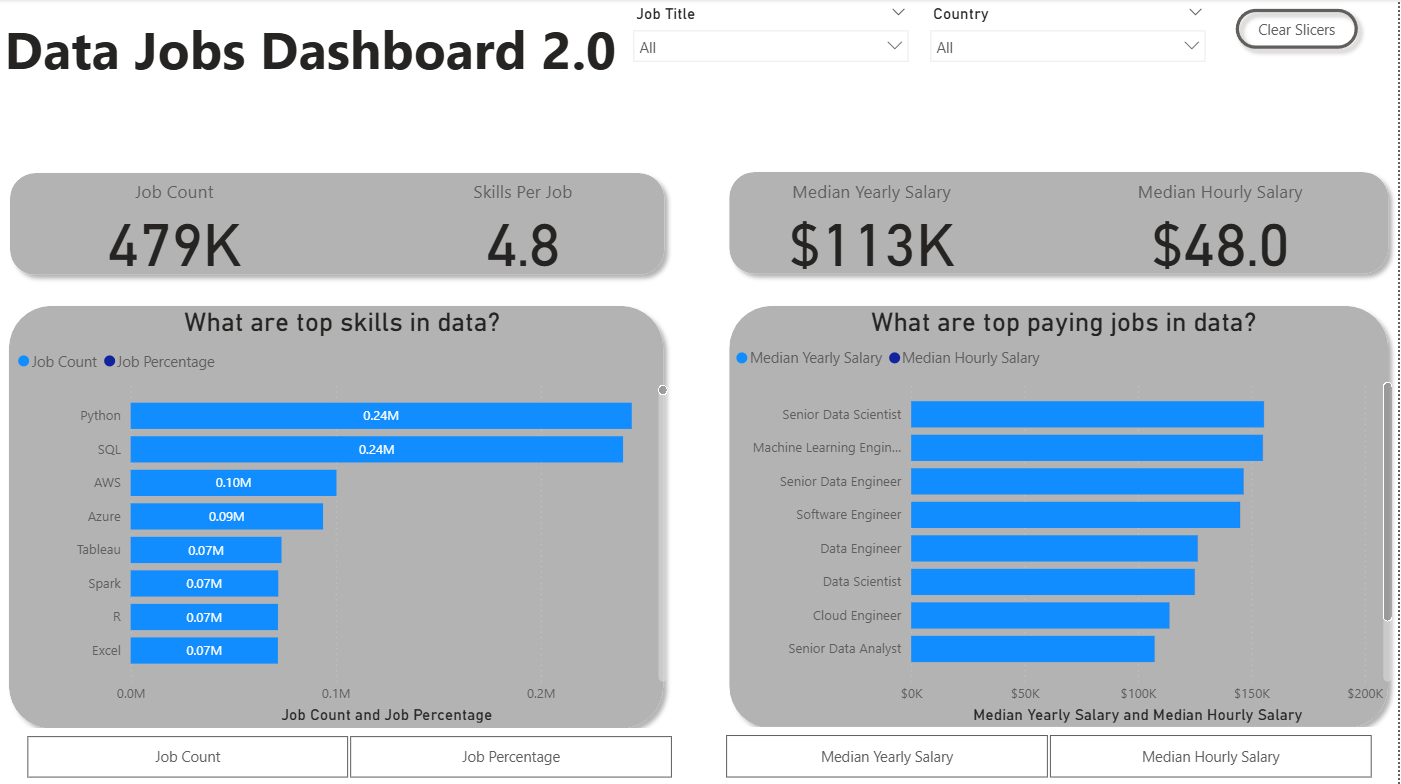
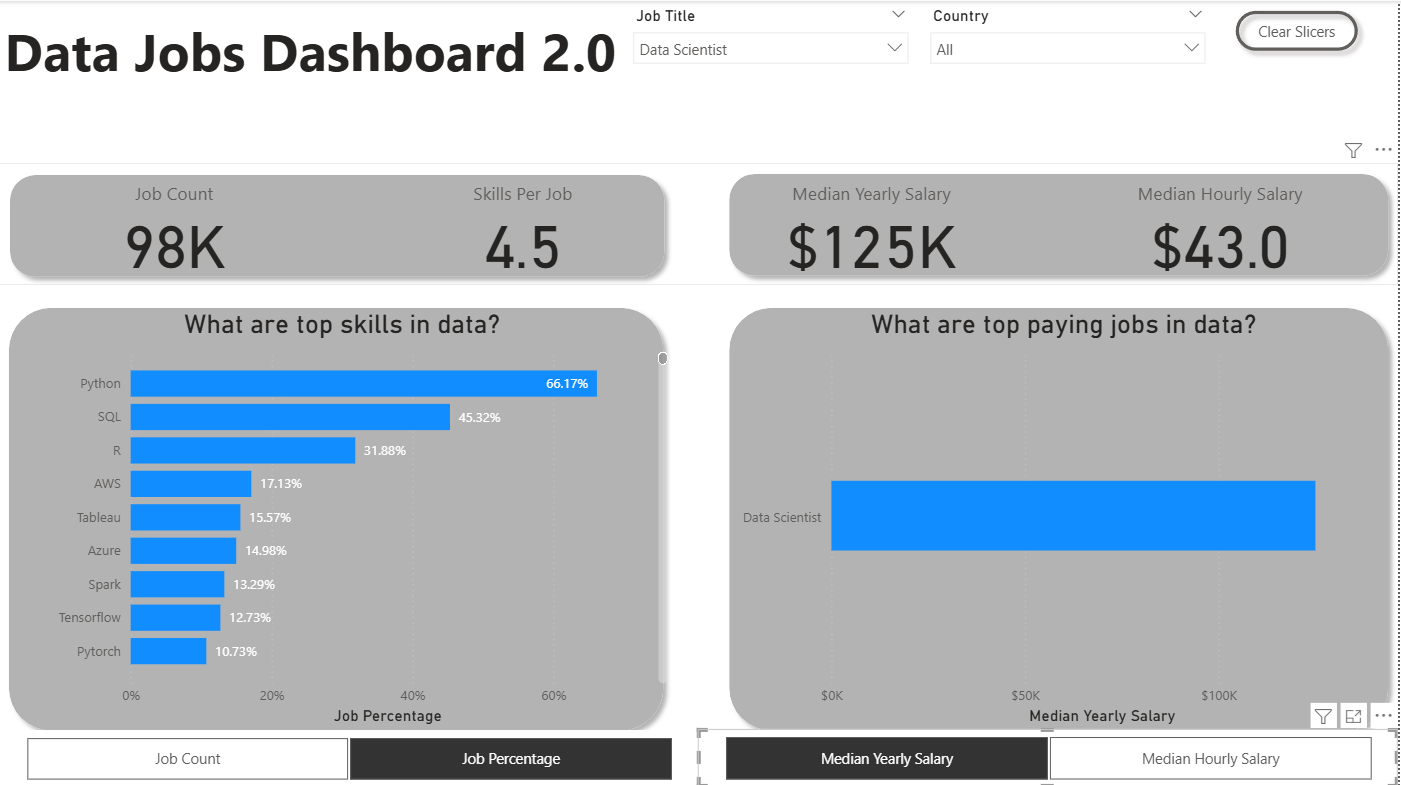
update_enhanced_md

diff --git a/v2/README-enhanced.md b/v2/README-enhanced.md
@@ -15,30 +15,25 @@ The **Enhanced Dashboard** builds on the initial one by offering **role-specific
 ![Dashboard 2](/images/dashboard_v2.png)
 
 ### ✅ Enhanced Insights
-- **Role-Specific Salary Analysis** (median, min, max)  
-- **Job Benefits Breakdown**:
-  - WFH availability  
-  - Health insurance coverage  
-  - Degree requirement  
-- **Job Platforms** distribution per role  
-- **Geographic Spread** of opportunities  
-- **Schedule Types** (full-time vs contract)  
+- **Role-Specific Salary Analysis**   
+- **Job Title Analysis** per role  
+- **Skill-Based Presence** by Count and Percentage  
+- **Pay Analysis** Annualy and Hourly
 
 ---
 
 ## 🔎 Value Added
 Unlike the initial dashboard, this version:  
-- Allows **filtering by role** (e.g., Data Analyst, Data Scientist, BI Engineer).  
+- Allows **filtering by role** (e.g., Data Analyst, Data Scientist, Data Engineer)  
 - Provides **actionable insights** for career planning, recruitment, and market analysis.  
-- Highlights where opportunities are concentrated, both by **country** and **platform**.  
+- Highlights where opportunities are concentrated, both by **country** and **Average Skill Count** needed per role.  
 
 ---
 
 ## 🚀 Example Insights
-- **Business Analysts** → Median salary ≈ $95k, with 91% full-time jobs.  
-- **LinkedIn** → Dominates job postings across all roles.  
-- **Work-from-Home** → More common in tech-heavy roles (Data Scientist, ML Engineer).  
-- **Geography** → U.S. leads in salaries, but other regions have strong job counts.  
+- **Data Scientist** → Median salary ≈ $125k, 
+- **Python** dominates the skills needed by 66.6%
+- **Average Skill Count** in Data science needed is 4.5
 
 ---
 
